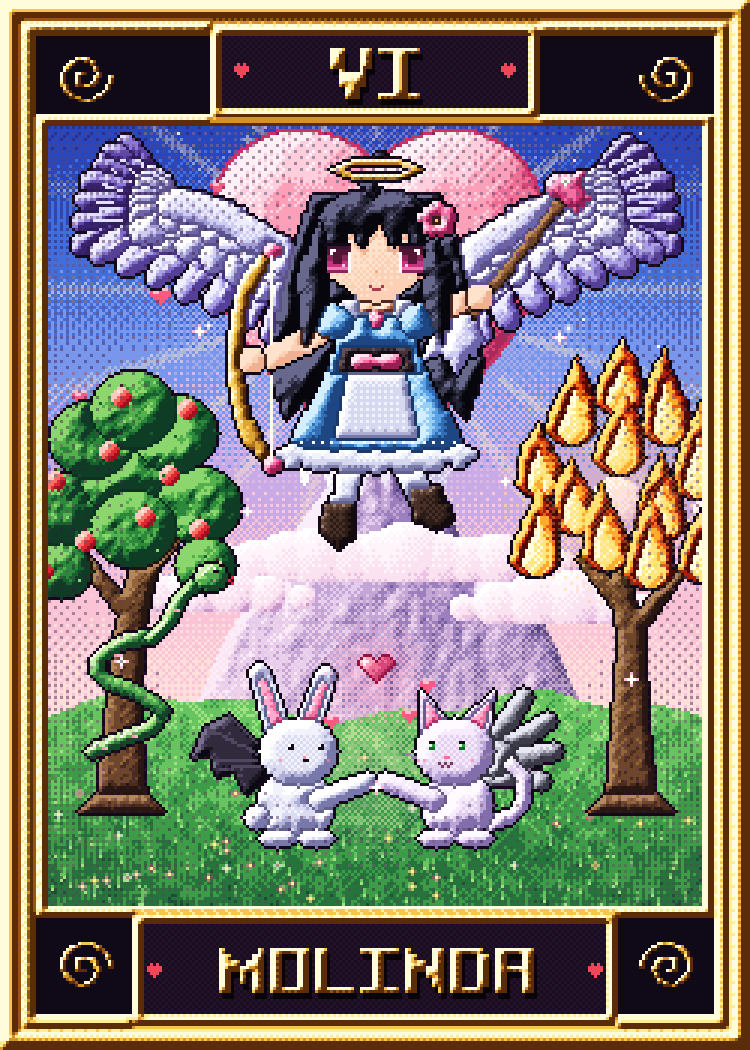
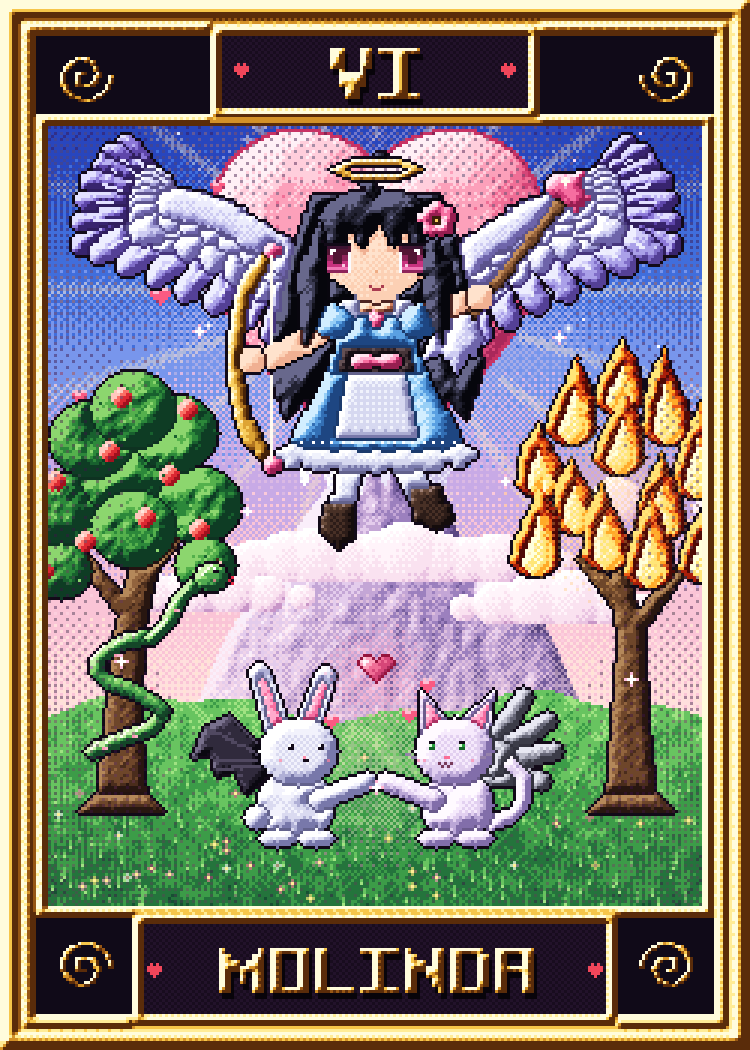
Tarot-Sleeves: Zwischenstand
Claude-Session: https://claude.ai/code/session_01HMsYu5Zq2Fg9ikmTkg7dDc

Changed region(s): [[0.736, 0.1524, 0.8893, 0.2438], [0.092, 0.1524, 0.276, 0.2438], [0.1533, 0.1219, 0.184, 0.1524]]

diff --git a/data/sleeve-proposals/generator/tarot/t06_lovers.py b/data/sleeve-proposals/generator/tarot/t06_lovers.py
@@ -165,6 +165,7 @@ fft, ftr = fig_draw(cv, flame_tree, {'t': mat(BARK, pillow=2.5, k=1.4, noise=0.8
                                      'F': mat(FIRE[3:], pillow=2, k=1.0, bias=0.2)})
 glow(cv, 206, 162, 40, (255, 190, 90), k=0.3, mix=0.3)
 
+vignette(cv, (60, 20, 70), strength=0.3, r0=0.78)      # nur auf den Hintergrund
 # ---------------------------------------------------------------- Molinda
 HAIR = [(6, 6, 12), (18, 18, 28), (34, 34, 50), (60, 60, 84), (104, 104, 140)]
 DRESS = [(30, 70, 130), (50, 110, 180), (90, 160, 226), (150, 206, 246), (210, 238, 255)]
@@ -482,6 +483,5 @@ for (x, y) in [(125, 262)]:
 # Funkeln
 for (x, y) in [(66, 110), (186, 112), (40, 220), (210, 226), (82, 170), (168, 160)]:
     sparkle(cv, x, y, (255, 255, 255), r=2, c2=(255, 190, 220))
-vignette(cv, (60, 20, 70), strength=0.3, r0=0.78)
 p = finish(cv, 'VI', 'MOLINDA', out='06_lovers_molinda', emblem=emblem_heart)
 print(p)
